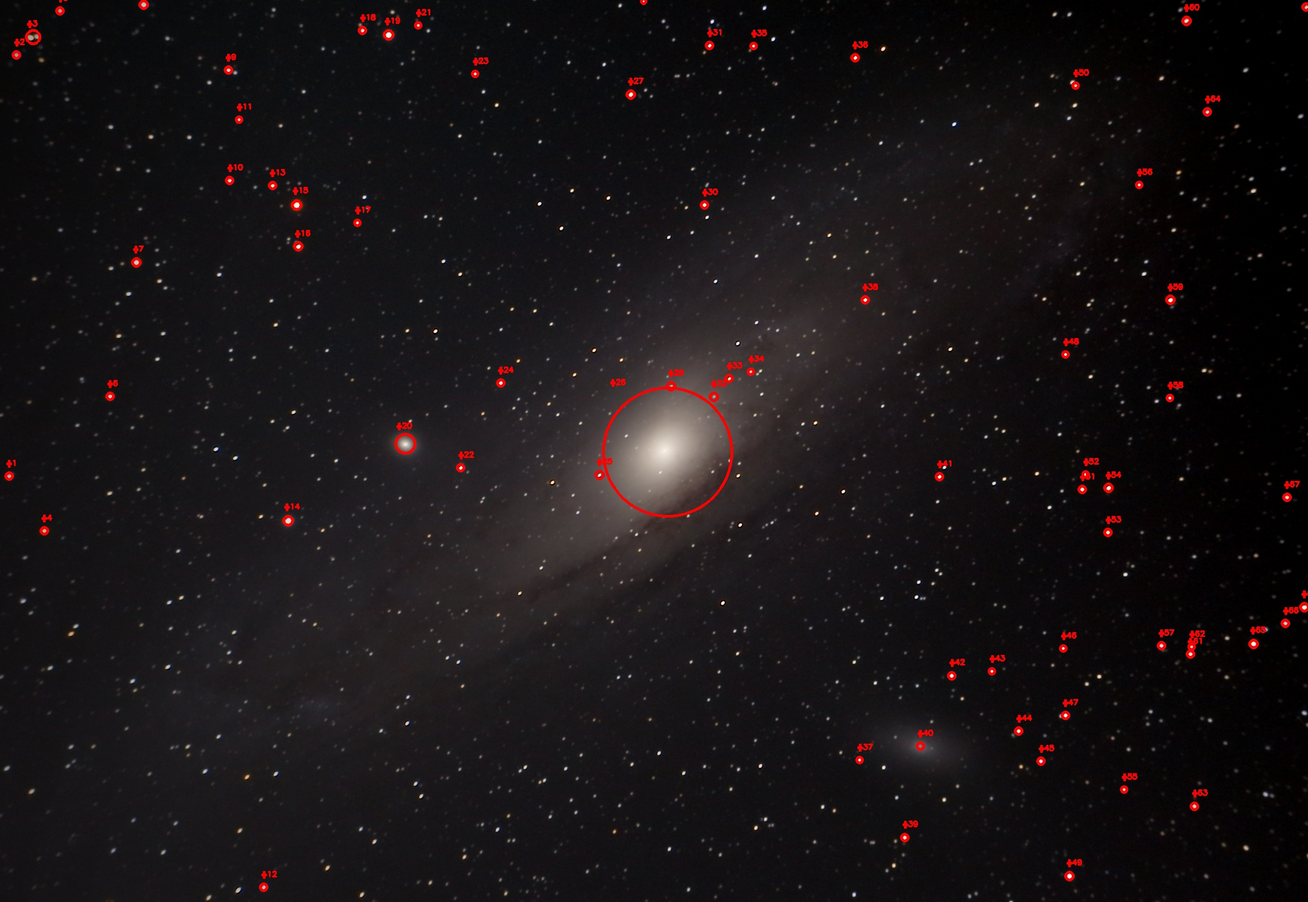
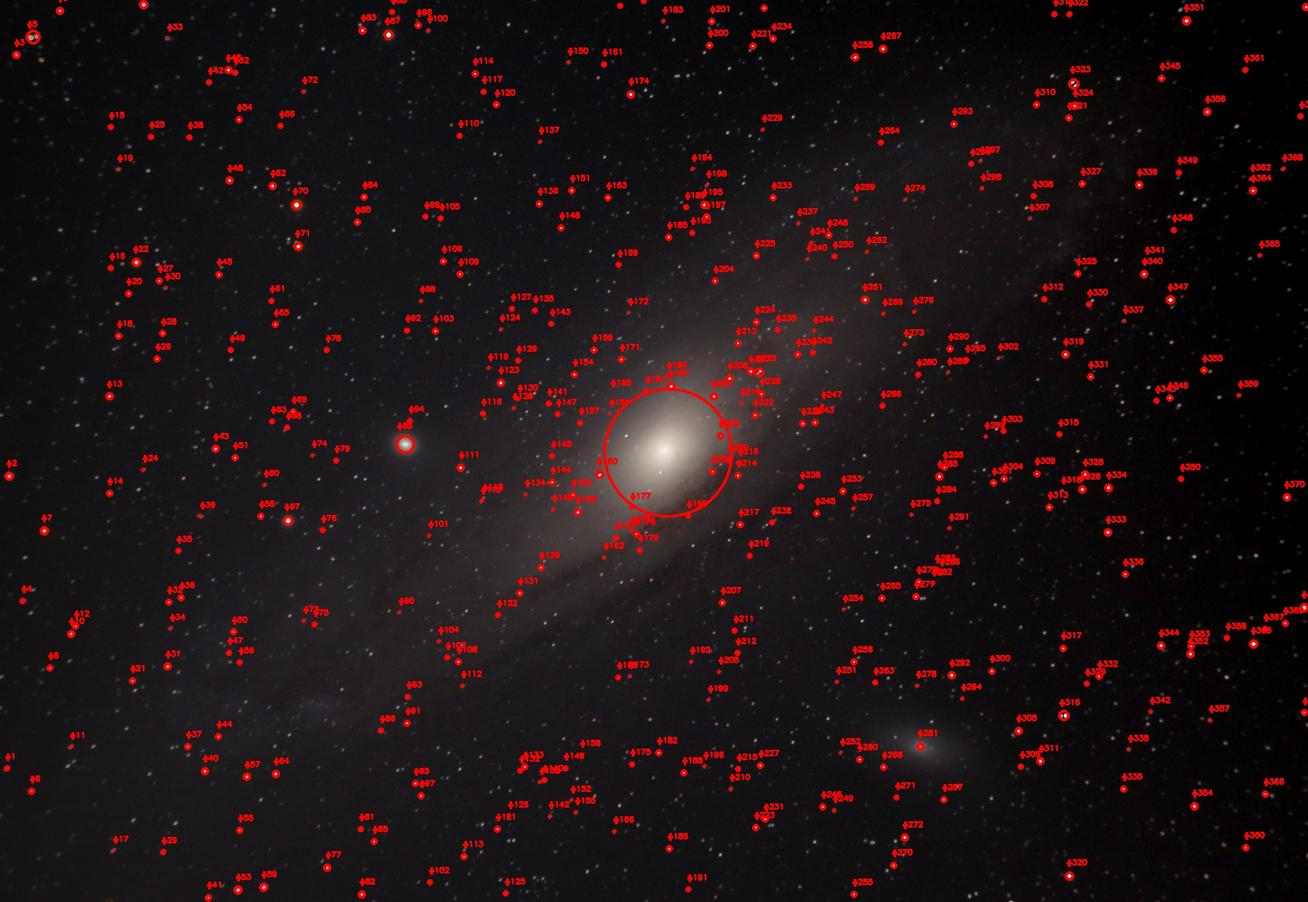
Change values

diff --git a/flask/flaskr/static/style.css b/flask/flaskr/static/style.css
@@ -4,36 +4,30 @@
 }
 
 body {
+	background-color: lightblue;
 	font-family: Monocraft;
 }
 
 .container {
-    background-color: whitesmoke;
+	background-color: #757253;
     
 	width: 50%;
     height: 50%;
 	
-	position: absolute;
-	top: 50%;
-	left: 50%;
-	transform: translate(-50%, -50%);
-
-	padding: 5%;
+	margin: auto;
+	padding: 1%;
 
 	border: 3px solid black;
-    border-radius: 10px;
+    border-radius: 5%;
     
 	text-align: center;
 }
 
 .image {
-    width: 70%;
-    height: 70%;
+    width: 80%;
+    height: 80%;
 	
-	margin: auto;
-    
-	justify-content: center;
-    align-items: center;
+	margin: auto;    
 }
 
 .image img {
@@ -41,5 +35,5 @@ body {
 	height: 100%;
 
 	border: 3px solid black;
-	border-radius: 10%;
+	border-radius: 5%;
 }

diff --git a/flask/util.py b/flask/util.py
@@ -15,7 +15,7 @@ def classify(filename):
 	image = cv2.imread(os.path.join('./flaskr/static/', filename))
 
 	gray = cv2.cvtColor(image, cv2.COLOR_BGR2GRAY)
-	blurred = cv2.GaussianBlur(gray, (11, 11), 0)
+	blurred = cv2.GaussianBlur(gray, (9, 9), 2)
 
 	# threshold the image to reveal light regions in the
 	# blurred image
@@ -23,8 +23,8 @@ def classify(filename):
 
 	# perform a series of erosions and dilations to remove
 	# any small blobs of noise from the thresholded image
-	thresh = cv2.erode(thresh, None, iterations=2)
-	thresh = cv2.dilate(thresh, None, iterations=4)
+	thresh = cv2.erode(thresh, None, iterations=0)
+	thresh = cv2.dilate(thresh, None, iterations=1)
 
 	# perform a connected component analysis on the thresholded
 	# image, then initialize a mask to store only the "large"
@@ -43,7 +43,7 @@ def classify(filename):
 		numPixels = cv2.countNonZero(labelMask)
 		# if the number of pixels in the component is sufficiently
 		# large, then add it to our mask of "large blobs"
-		if numPixels > 10:
+		if numPixels > 1:
 			mask = cv2.add(mask, labelMask)
 
 	# find the contours in the mask, then sort them from left to
